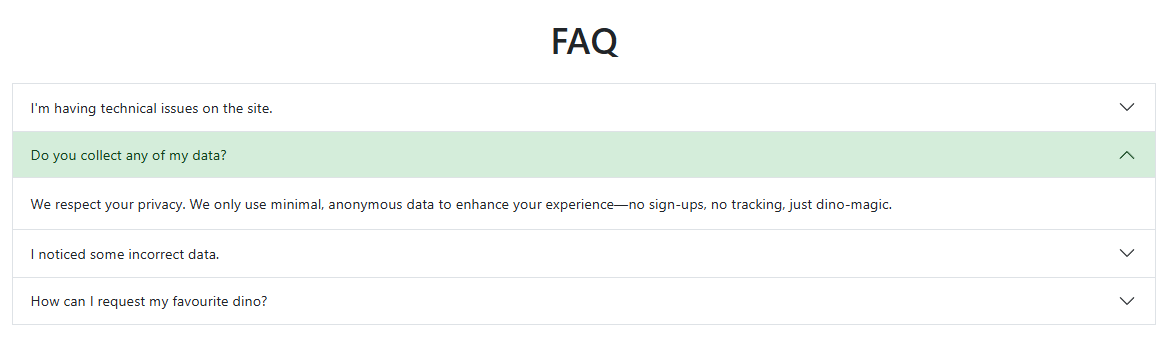
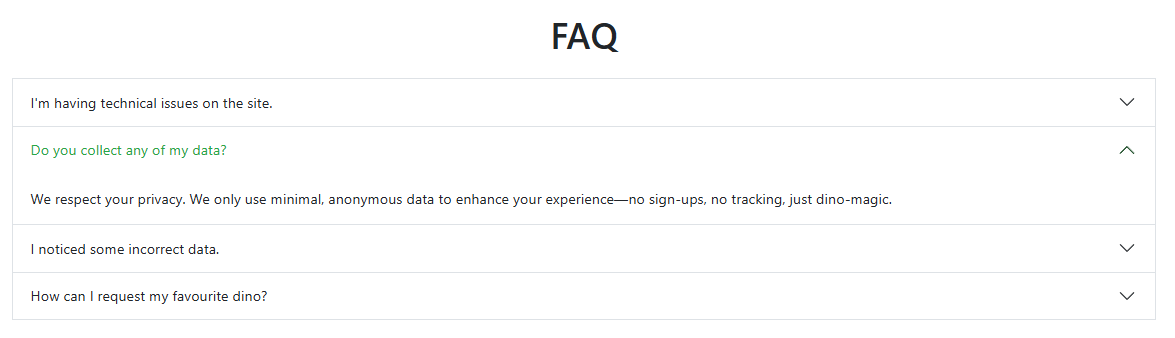
faq styling update

diff --git a/src/styles/faq.scss b/src/styles/faq.scss
@@ -1,3 +1,9 @@
 .accordion-button::after {
     margin-right: 2px;
 }
+
+.accordion-button:not(.collapsed) {
+    background-color: white;
+    color: $primary;
+    box-shadow: none;
+}
